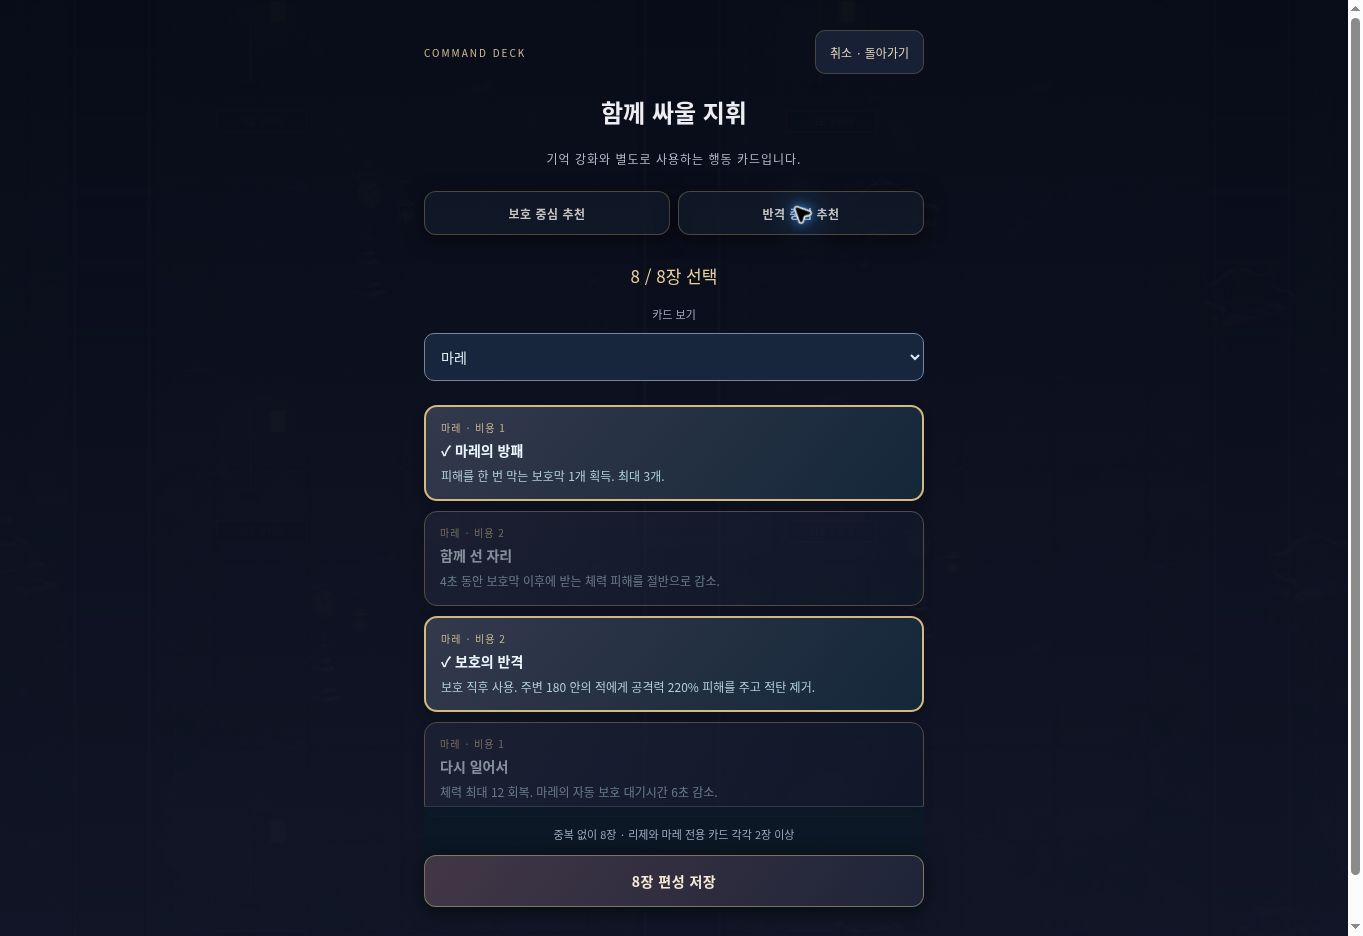
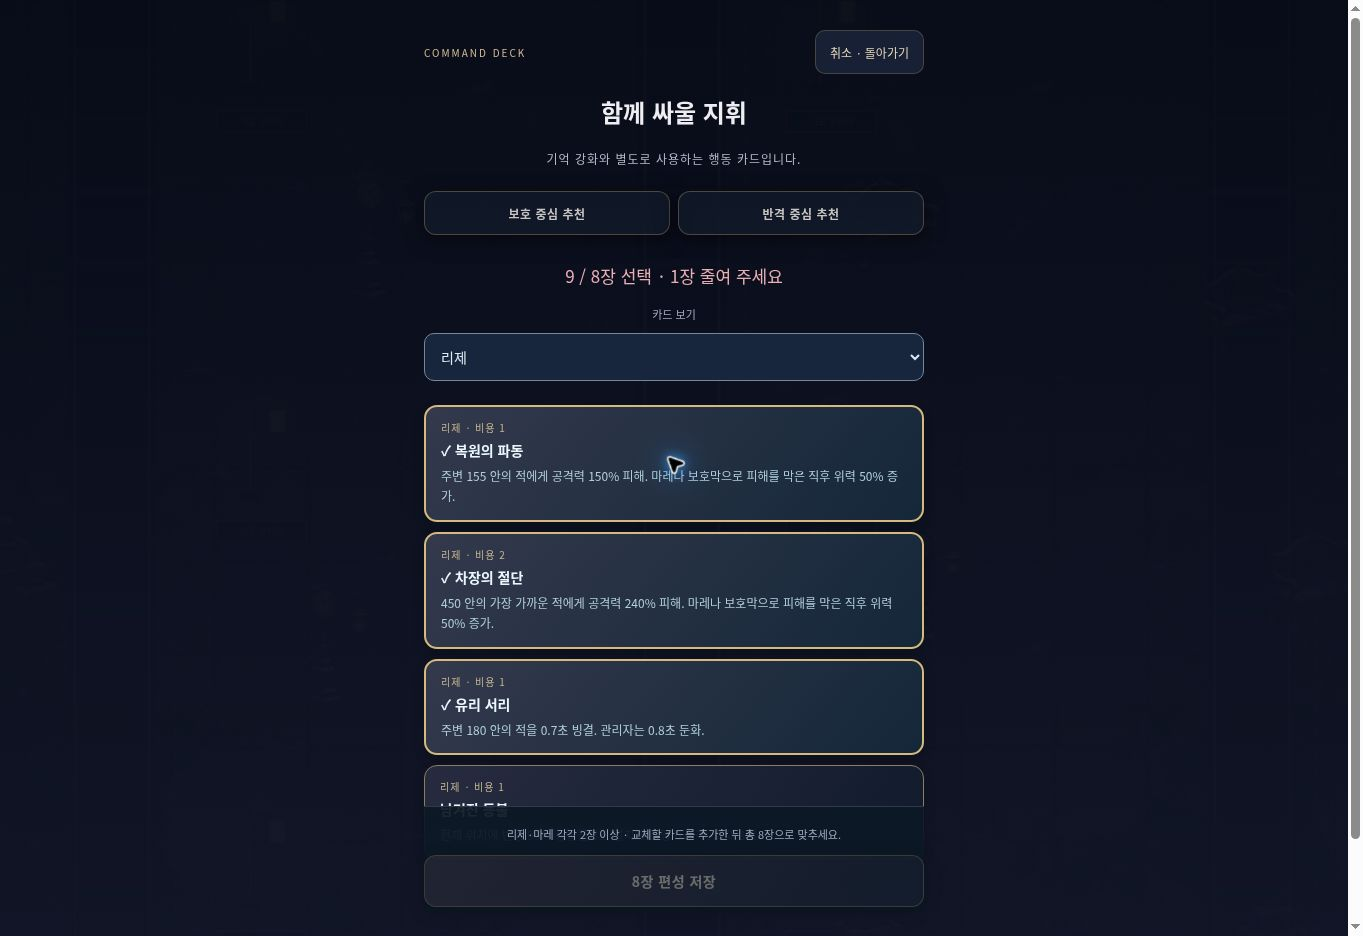
docs: record live command-deck verification and R3 handoff

diff --git a/docs/QA_V015.md b/docs/QA_V015.md
@@ -75,3 +75,7 @@
 - 이 과정에서 훈련 종료가 이야기 중단으로 표시되는 문구를 찾아 rc2에서 고쳤다. 편성의 미선택 카드가8장 선택 시 너무 어두워지고 먼저 빼야만 바꿀 수 있던 흐름도 rc2에서 임시 초과 편성→8장 조정으로 개선했다.
 
 실제 화면: [지휘 손패](screenshots/v015-commands-live.jpg), [사용 후 손패](screenshots/v015-after-cast-live.jpg), [반격 편성](screenshots/v015-deck-live.jpg). 이는 공개 UI 검수이며 브라우저에서 두 전투 전체를 완주한 검증은 아니다. 별도로 원본 에셋의390×720 Canvas에서 기본/저품질·섬광 감소 장막 링을 확인했다. 아직 실제 아이폰 Safari/홈 화면의 터치·가독성·연속 플레이·프레임/발열·오디오·오프라인/이전 캐시 갱신과 사람의 두 덱 비교는 완료하지 않았다. 자동 테스트/Canvas 렌더/원격 Chrome을 실기 검증으로 취급하지 않는다.
+
+### rc2 공개 재검수
+
+코드 커밋 `71dd40b` / Actions44205187928 테스트·배포 성공. 실제 공개 페이지에서 새 버전 열기로 `0.15.0-rc2` 표시를 확인했다. 반격 덱에서 함께 선 자리를 추가해9장/저장 불가 안내, 복원의 파동을 빼8장/저장 가능으로 전환, 마레3장 편성 저장과 훈련 진입을 검수했다. 훈련의 일시정지/종료에서 연습 종료까지·지휘 연습 끝내기·저장된 진행/덱/재화 보존 문구가 실제로 표시됐다. [훈련 종료 화면](screenshots/v015-training-exit-live.jpg). 검수 후 원래 단독 임무를 UI로 복원했다. 공개 화면의 검수 프로필/백업은 저장소에 포함하지 않았다.

diff --git a/DEV_STATUS.md b/DEV_STATUS.md
@@ -88,3 +88,5 @@ HP 전환·대각선/안전구간 판정·고정 잔진동·불씨 중복/만료
 저장은 schema2로 이전하며 이전schema1 백업을 읽는다. 구버전 캐시가 새 이야기 필드를 버리지 못하도록 primary/정상backup을 함께2로 보강한다. 실제 이전 store VM의 덮어쓰기 차단도 검증했다. 상세 docs/QA_V014.md.
 
 공개 UI에서 프롤로그/대사 재접속/첫 임무와, 정상 엔진으로 만든 합류 체크포인트의 UI 가져오기를 통한 마레 표시/동행 임무를 검수했다. 원본 검수 프로필도 UI로 복원했다. 이는 실기 두 전투 완주 검증과 구분한다. rc2에서 이야기 중단/대화·전투 경계 문구를 보완했다.
+
+v0.15 최종 공개 코드: `36353ae`(R2) → `71dd40b`(rc2 UX 보완). 두 Actions 테스트/Pages 배포 성공. rc2 공개 UI에서9장 임시 편성/8장 조정·저장, 훈련 종료 안내를 재검수하고 원래 검수 기록을 복원했다. 다음 실행은 NEXT_TASKS.md의R3다.
